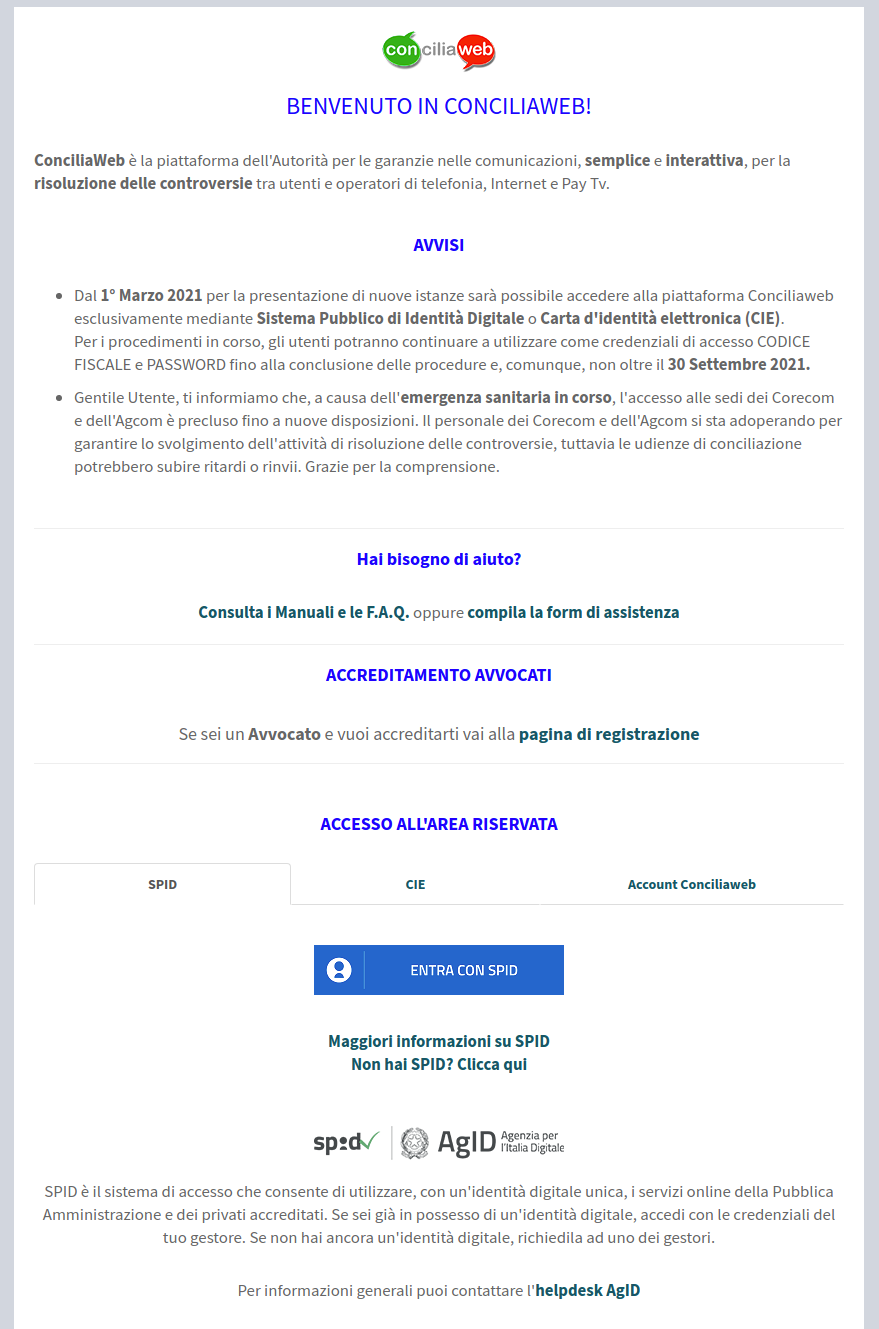
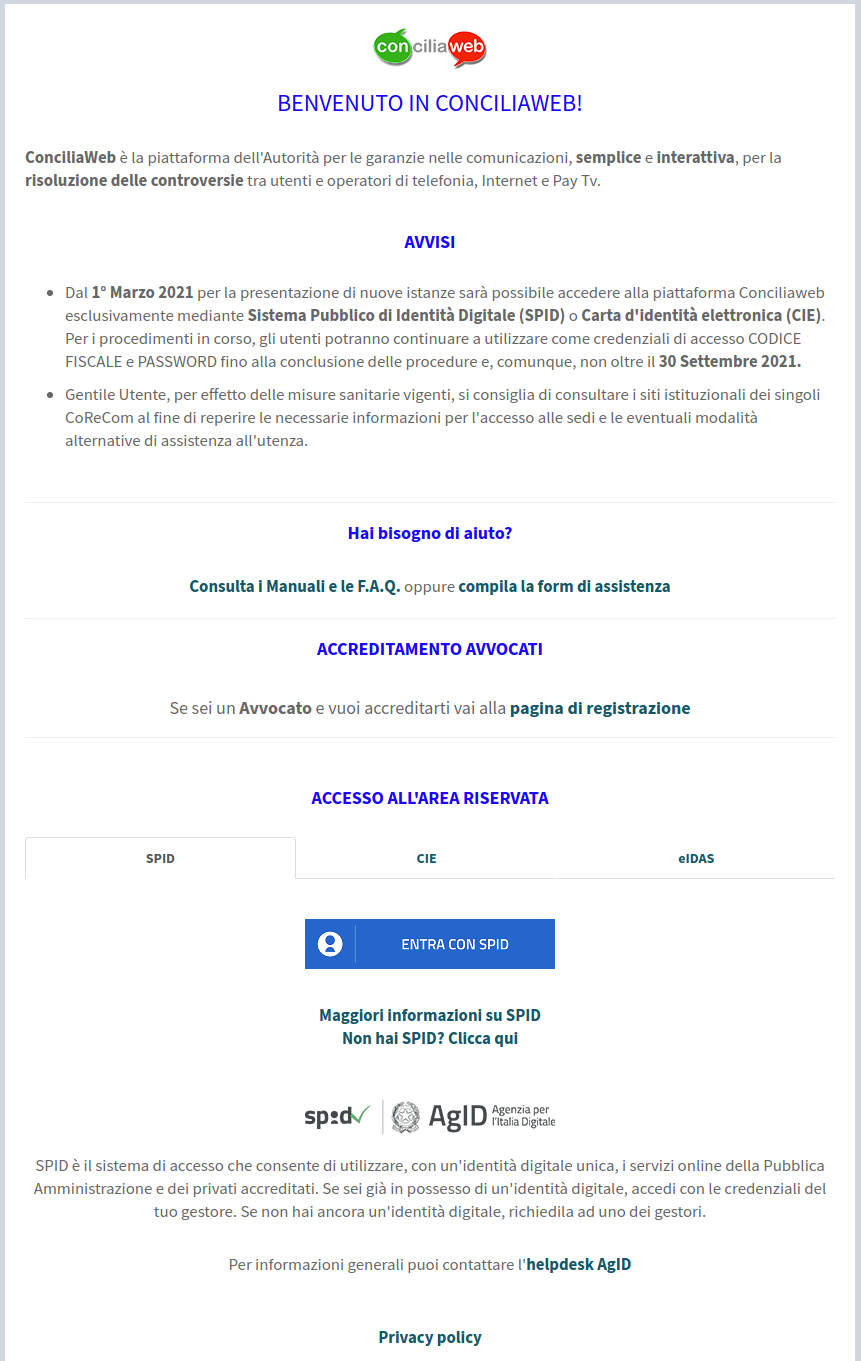
Rilascio v 2.2.1

Changed region(s): [[0.0, 0.0, 0.9965, 1.0], [0.7247, 0.617, 0.8455, 0.6787], [0.151, 0.617, 0.2114, 0.6787]]

diff --git a/manuale-operatore/introduzione/login.rst b/manuale-operatore/introduzione/login.rst
@@ -1,13 +1,9 @@
 Login
 ==========
 
-.. important::
+Per accedere a ConciliaWeb, una volta profilati nel sistema, è necessario possedere un profilo `SPID <https://www.spid.gov.it/>`_, `Carta d'identità elettronica (CIE) <https://www.cartaidentita.interno.gov.it/>`_ o `eIDAS <https://www.eid.gov.it/>`_ riferito a persona fisica.
 
-   Per tutti gli utenti operatore è obbligatorio l'accesso SPID. L'account deve essere riferito a persona fisica.
-
-Per accedere a ConciliaWeb, una volta profilati nel sistema, è necessario possedere un profilo SPID.
-
-Per accedere premere il bottone "Entra con SPID", selezionare il provider fornitore del proprio account SPID e seguire i passi mostrati.
+Per accedere con SPID premere il bottone "Entra con SPID", selezionare il provider fornitore del proprio account SPID e seguire i passi mostrati.
 
 .. figure:: /media/login.png
    :align: center
